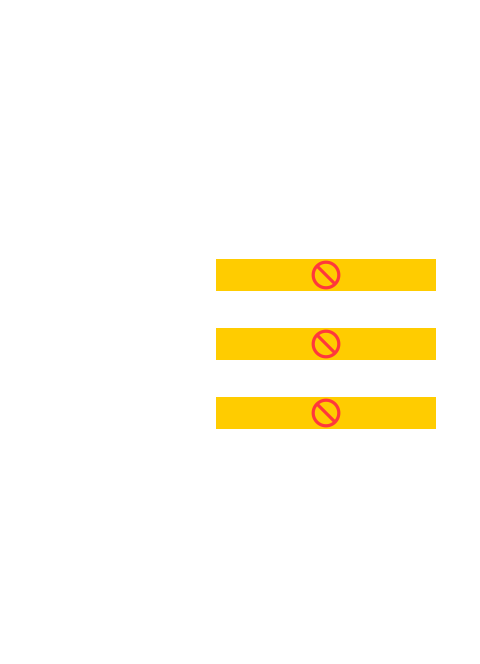
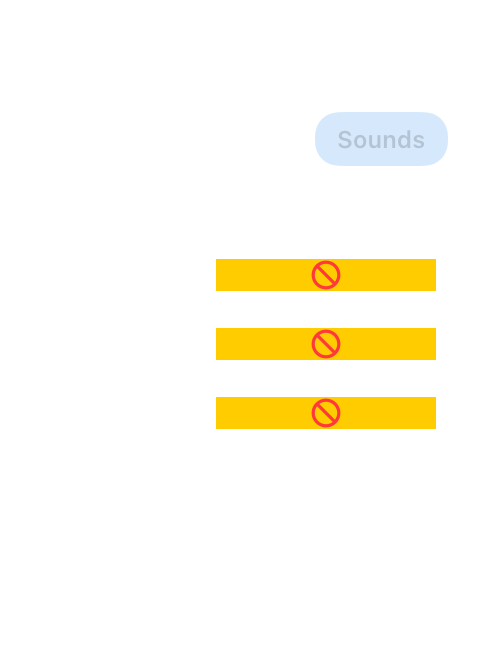
Polish Liquid Glass tab selector

Changed region(s): [[0.6562, 0.1506, 0.9375, 0.2711]]

diff --git a/TomatoBar/View.swift b/TomatoBar/View.swift
@@ -198,8 +198,19 @@ private enum ChildView {
 
 private struct GlassTabBar: View {
     @Binding var selection: ChildView
+    @Namespace private var selectionNamespace
 
     var body: some View {
+        if #available(macOS 26.0, *) {
+            GlassEffectContainer {
+                tabs
+            }
+        } else {
+            tabs
+        }
+    }
+
+    private var tabs: some View {
         HStack(spacing: 4) {
             tab(.intervals, title: NSLocalizedString("TBPopoverView.intervals.label",
                                                      comment: "Intervals label"))
@@ -215,33 +226,43 @@ private struct GlassTabBar: View {
 
     private func tab(_ childView: ChildView, title: String) -> some View {
         Button {
-            selection = childView
+            withAnimation(.snappy(duration: 0.18)) {
+                selection = childView
+            }
         } label: {
-            Text(title)
-                .font(.system(size: 12, weight: selection == childView ? .semibold : .regular))
-                .lineLimit(1)
-                .frame(maxWidth: .infinity)
-                .padding(.vertical, 6)
-                .contentShape(RoundedRectangle(cornerRadius: 12, style: .continuous))
+            ZStack {
+                if selection == childView {
+                    selectedTabBackground
+                        .matchedGeometryEffect(id: "selectedTab", in: selectionNamespace)
+                }
+
+                Text(title)
+                    .font(.system(size: 12, weight: selection == childView ? .semibold : .regular))
+                    .lineLimit(1)
+                    .frame(maxWidth: .infinity)
+                    .padding(.vertical, 6)
+            }
+            .contentShape(RoundedRectangle(cornerRadius: 12, style: .continuous))
         }
         .buttonStyle(.plain)
-        .modifier(GlassTabButton(isSelected: selection == childView))
+    }
+
+    private var selectedTabBackground: some View {
+        RoundedRectangle(cornerRadius: 12, style: .continuous)
+            .fill(Color.accentColor.opacity(0.16))
+            .modifier(SelectedTabGlass())
     }
 }
 
-private struct GlassTabButton: ViewModifier {
-    let isSelected: Bool
-
+private struct SelectedTabGlass: ViewModifier {
     @ViewBuilder
     func body(content: Content) -> some View {
         if #available(macOS 26.0, *) {
             content
-                .glassEffect(isSelected ? .regular.interactive() : .identity,
-                             in: .rect(cornerRadius: 12))
+                .foregroundStyle(.clear)
+                .glassEffect(.regular.interactive(), in: .rect(cornerRadius: 12))
         } else {
             content
-                .background(isSelected ? Color.accentColor.opacity(0.16) : Color.clear)
-                .cornerRadius(12)
         }
     }
 }
